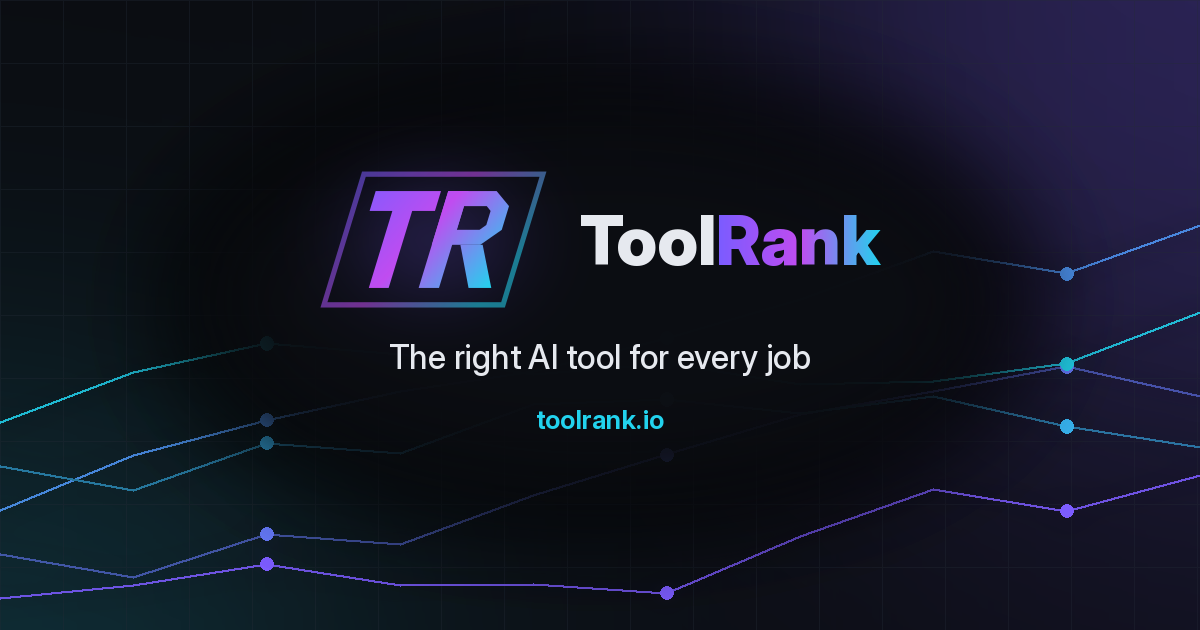
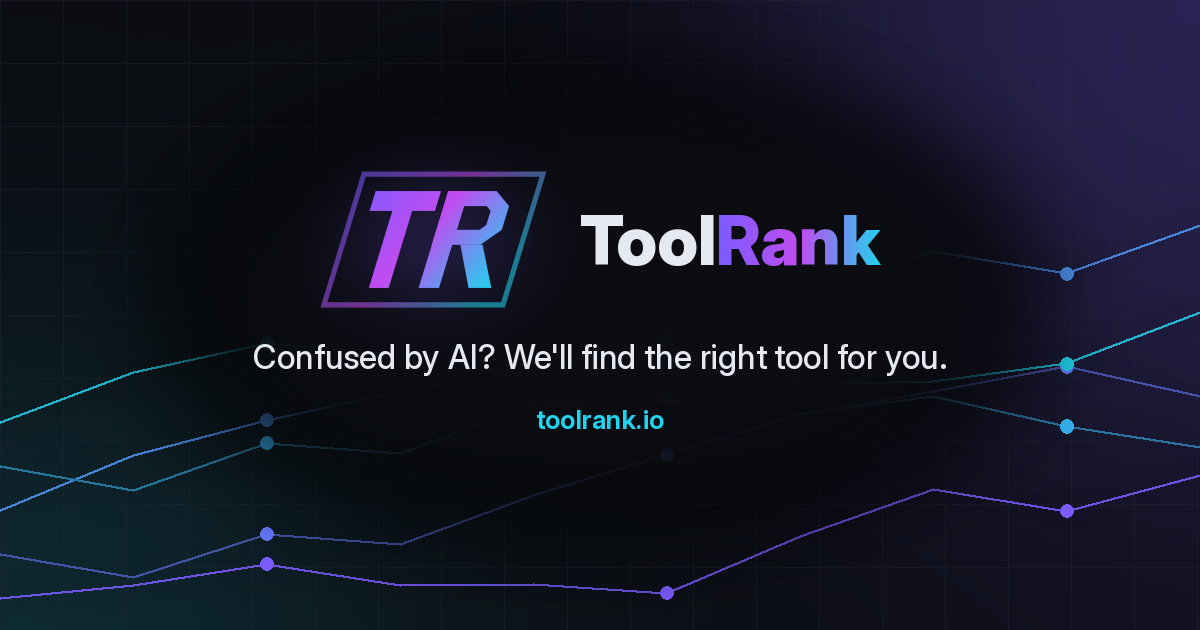
Homepage hero + OG image: 'Confused by AI? We'll find the right tool for you.'

Changed region(s): [[0.2158, 0.5429, 0.8017, 0.6032]]

diff --git a/index.html b/index.html
@@ -6,7 +6,7 @@
 <link rel="icon" href="/assets/favicon.svg" type="image/svg+xml"><link rel="icon" href="/assets/favicon-32.png" sizes="32x32" type="image/png"><link rel="apple-touch-icon" href="/assets/apple-touch-icon.png"><meta name="twitter:title" content="ToolRank: the best AI tools ranked by use case (2026)"><meta name="twitter:description" content="Editorial rankings of AI tools across 10 use cases: vibe coding, coding assistants, video, agent builder, image generation, writing, research &amp; search, voice &amp; audio, productivity &amp; automation, crypto &amp; Web3. Updated 2026-10-15.">
 <script type="application/ld+json">{"@context": "https://schema.org", "@graph": [{"@type": "Organization", "@id": "https://toolrank.io/#org", "name": "ToolRank", "url": "https://toolrank.io/"}, {"@type": "WebSite", "@id": "https://toolrank.io/#website", "name": "ToolRank", "url": "https://toolrank.io/", "publisher": {"@id": "https://toolrank.io/#org"}, "potentialAction": {"@type": "SearchAction", "target": {"@type": "EntryPoint", "urlTemplate": "https://toolrank.io/?q={search_term_string}"}, "query-input": "required name=search_term_string"}}, {"@type": "ItemList", "name": "Best for vibe coding", "url": "https://toolrank.io/best/vibe-coding/", "itemListElement": [{"@type": "ListItem", "position": 1, "name": "Lovable", "url": "https://lovable.dev"}, {"@type": "ListItem", "position": 2, "name": "Bolt.new", "url": "https://bolt.new"}, {"@type": "ListItem", "position": 3, "name": "v0", "url": "https://v0.app"}, {"@type": "ListItem", "position": 4, "name": "Replit", "url": "https://replit.com"}, {"@type": "ListItem", "position": 5, "name": "Base44", "url": "https://base44.com"}, {"@type": "ListItem", "position": 6, "name": "Google AI Studio (Build)", "url": "https://aistudio.google.com"}, {"@type": "ListItem", "position": 7, "name": "Firebase Studio", "url": "https://firebase.studio"}, {"@type": "ListItem", "position": 8, "name": "Create.xyz (Anything)", "url": "https://www.createanything.com"}, {"@type": "ListItem", "position": 9, "name": "Rork", "url": "https://rork.com"}, {"@type": "ListItem", "position": 10, "name": "Softgen", "url": "https://softgen.ai"}, {"@type": "ListItem", "position": 11, "name": "Tempo", "url": "https://www.tempo.new"}, {"@type": "ListItem", "position": 12, "name": "Same", "url": "https://same.new"}, {"@type": "ListItem", "position": 13, "name": "Macaly", "url": "https://www.macaly.com"}, {"@type": "ListItem", "position": 14, "name": "Figma Make", "url": "https://www.figma.com/make/"}, {"@type": "ListItem", "position": 15, "name": "Bubble", "url": "https://bubble.io"}, {"@type": "ListItem", "position": 16, "name": "Glide", "url": "https://www.glideapps.com"}, {"@type": "ListItem", "position": 17, "name": "Webflow", "url": "https://webflow.com"}, {"@type": "ListItem", "position": 18, "name": "Framer", "url": "https://www.framer.com"}, {"@type": "ListItem", "position": 19, "name": "Dyad", "url": "https://www.dyad.sh"}, {"@type": "ListItem", "position": 20, "name": "vibe-wise", "url": "https://github.com/nykooi1/vibe-wise"}, {"@type": "ListItem", "position": 21, "name": "scroll-craft", "url": "https://github.com/nateherkai/scroll-craft"}, {"@type": "ListItem", "position": 22, "name": "shadcn lint", "url": "https://github.com/shadcn-ui/lint"}]}, {"@type": "ItemList", "name": "Best coding assistants", "url": "https://toolrank.io/best/coding-assistants/", "itemListElement": [{"@type": "ListItem", "position": 1, "name": "Cursor", "url": "https://www.cursor.com"}, {"@type": "ListItem", "position": 2, "name": "Claude Code", "url": "https://www.anthropic.com/claude-code"}, {"@type": "ListItem", "position": 3, "name": "GitHub Copilot", "url": "https://github.com/features/copilot"}, {"@type": "ListItem", "position": 4, "name": "OpenAI Codex", "url": "https://openai.com/codex"}, {"@type": "ListItem", "position": 5, "name": "Windsurf", "url": "https://windsurf.com"}, {"@type": "ListItem", "position": 6, "name": "Gemini CLI", "url": "https://github.com/google-gemini/gemini-cli"}, {"@type": "ListItem", "position": 7, "name": "JetBrains AI (Junie)", "url": "https://junie.jetbrains.com/"}, {"@type": "ListItem", "position": 8, "name": "Cline", "url": "https://cline.bot"}, {"@type": "ListItem", "position": 9, "name": "Kilo Code", "url": "https://kilo.ai"}, {"@type": "ListItem", "position": 10, "name": "Aider", "url": "https://aider.chat"}, {"@type": "ListItem", "position": 11, "name": "Amp", "url": "https://ampcode.com"}, {"@type": "ListItem", "position": 12, "name": "Zed", "url": "https://zed.dev"}, {"@type": "ListItem", "position": 13, "name": "Amazon Q Developer", "url": "https://aws.amazon.com/q/developer/"}, {"@type": "ListItem", "position": 14, "name": "Kiro", "url": "https://kiro.dev"}, {"@type": "ListItem", "position": 15, "name": "Augment Code", "url": "https://www.augmentcode.com"}, {"@type": "ListItem", "position": 16, "name": "Devin", "url": "https://devin.ai"}, {"@type": "ListItem", "position": 17, "name": "Factory", "url": "https://factory.com"}, {"@type": "ListItem", "position": 18, "name": "Warp", "url": "https://www.warp.dev"}, {"@type": "ListItem", "position": 19, "name": "OpenCode", "url": "https://opencode.ai"}, {"@type": "ListItem", "position": 20, "name": "Continue", "url": "https://www.continue.dev"}, {"@type": "ListItem", "position": 21, "name": "CodeRabbit", "url": "https://www.coderabbit.ai"}, {"@type": "ListItem", "position": 22, "name": "Qodo", "url": "https://www.qodo.ai"}, {"@type": "ListItem", "position": 23, "name": "Magpie", "url": "https://usemagpie.ai"}, {"@type": "ListItem", "position": 24, "name": "Mono (monocode)", "url": "https://usemono.dev"}, {"@type": "ListItem", "position": 25, "name": "OmniRush", "url": "https://omnirush.ai"}, {"@type": "ListItem", "position": 26, "name": "jevgrep", "url": "https://github.com/dzhng/jevgrep"}]}, {"@type": "ItemList", "name": "Best for video", "url": "https://toolrank.io/best/video/", "itemListElement": [{"@type": "ListItem", "position": 1, "name": "Runway", "url": "https://runwayml.com"}, {"@type": "ListItem", "position": 2, "name": "Google Veo", "url": "https://deepmind.google/models/veo/"}, {"@type": "ListItem", "position": 3, "name": "Kling AI", "url": "https://klingai.com"}, {"@type": "ListItem", "position": 4, "name": "Luma AI", "url": "https://lumalabs.ai"}, {"@type": "ListItem", "position": 5, "name": "HeyGen", "url": "https://www.heygen.com"}, {"@type": "ListItem", "position": 6, "name": "Sora", "url": "https://openai.com/sora"}, {"@type": "ListItem", "position": 7, "name": "Synthesia", "url": "https://www.synthesia.io"}, {"@type": "ListItem", "position": 8, "name": "Pika", "url": "https://pika.art"}, {"@type": "ListItem", "position": 9, "name": "Hailuo AI (MiniMax)", "url": "https://hailuoai.video"}, {"@type": "ListItem", "position": 10, "name": "Higgsfield", "url": "https://higgsfield.ai"}, {"@type": "ListItem", "position": 11, "name": "PixVerse", "url": "https://pixverse.ai"}, {"@type": "ListItem", "position": 12, "name": "Vidu", "url": "https://www.vidu.com"}, {"@type": "ListItem", "position": 13, "name": "Hedra", "url": "https://www.hedra.com"}, {"@type": "ListItem", "position": 14, "name": "Captions", "url": "https://www.captions.ai"}, {"@type": "ListItem", "position": 15, "name": "OpusClip", "url": "https://www.opus.pro"}, {"@type": "ListItem", "position": 16, "name": "Descript (video)", "url": "https://www.descript.com"}, {"@type": "ListItem", "position": 17, "name": "CapCut", "url": "https://www.capcut.com"}, {"@type": "ListItem", "position": 18, "name": "Invideo AI", "url": "https://invideo.io"}, {"@type": "ListItem", "position": 19, "name": "Colossyan", "url": "https://www.colossyan.com"}, {"@type": "ListItem", "position": 20, "name": "D-ID", "url": "https://www.d-id.com"}, {"@type": "ListItem", "position": 21, "name": "Wan (Alibaba)", "url": "https://wan.video"}, {"@type": "ListItem", "position": 22, "name": "LTX Studio", "url": "https://ltx.io/studio"}, {"@type": "ListItem", "position": 23, "name": "Veed", "url": "https://www.veed.io"}, {"@type": "ListItem", "position": 24, "name": "Topaz Video", "url": "https://www.topazlabs.com/topaz-video"}, {"@type": "ListItem", "position": 25, "name": "Wonder Studio (Autodesk Flow Studio)", "url": "https://www.autodesk.com/products/flow-studio/overview"}, {"@type": "ListItem", "position": 26, "name": "Vozo", "url": "https://www.vozo.ai"}, {"@type": "ListItem", "position": 27, "name": "ReelMimic", "url": "https://github.com/edenfunf/reelmimic"}]}, {"@type": "ItemList", "name": "Best agent builder", "url": "https://toolrank.io/best/agent-builders/", "itemListElement": [{"@type": "ListItem", "position": 1, "name": "n8n", "url": "https://n8n.io"}, {"@type": "ListItem", "position": 2, "name": "LangGraph", "url": "https://www.langchain.com/langgraph"}, {"@type": "ListItem", "position": 3, "name": "CrewAI", "url": "https://www.crewai.com"}, {"@type": "ListItem", "position": 4, "name": "Relevance AI", "url": "https://www.relevanceai.com"}, {"@type": "ListItem", "position": 5, "name": "Gumloop", "url": "https://www.gumloop.com"}, {"@type": "ListItem", "position": 6, "name": "OpenAI Agents SDK", "url": "https://openai.github.io/openai-agents-python/"}, {"@type": "ListItem", "position": 7, "name": "Claude Agent SDK", "url": "https://code.claude.com/docs/en/agent-sdk/overview"}, {"@type": "ListItem", "position": 8, "name": "Google ADK", "url": "https://adk.dev/"}, {"@type": "ListItem", "position": 9, "name": "Microsoft Agent Framework", "url": "https://github.com/microsoft/agent-framework"}, {"@type": "ListItem", "position": 10, "name": "LlamaIndex", "url": "https://www.llamaindex.ai"}, {"@type": "ListItem", "position": 11, "name": "Pydantic AI", "url": "https://pydantic.dev/docs/ai/overview/"}, {"@type": "ListItem", "position": 12, "name": "Mastra", "url": "https://mastra.ai"}, {"@type": "ListItem", "position": 13, "name": "Dify", "url": "https://dify.ai"}, {"@type": "ListItem", "position": 14, "name": "Flowise", "url": "https://flowiseai.com"}, {"@type": "ListItem", "position": 15, "name": "Langflow", "url": "https://www.langflow.org"}, {"@type": "ListItem", "position": 16, "name": "Lindy", "url": "https://www.lindy.ai"}, {"@type": "ListItem", "position": 17, "name": "Botpress", "url": "https://botpress.com"}, {"@type": "ListItem", "position": 18, "name": "Voiceflow", "url": "https://www.voiceflow.com"}, {"@type": "ListItem", "position": 19, "name": "Vapi", "url": "https://vapi.ai"}, {"@type": "ListItem", "position": 20, "name": "Agno", "url": "https://www.agno.com"}, {"@type": "ListItem", "position": 21, "name": "Monid", "url": "https://monid.ai"}, {"@type": "ListItem", "position": 22, "name": "agent-memory", "url": "https://github.com/tigerless-labs/agent-memory"}, {"@type": "ListItem", "position": 23, "name": "Reef", "url": "https://reefinfra.ai"}]}, {"@type": "ItemList", "name": "Best for image generation", "url": "https://toolrank.io/best/image/", "itemListElement": [{"@type": "ListItem", "position": 1, "name": "Midjourney", "url": "https://www.midjourney.com"}, {"@type": "ListItem", "position": 2, "name": "Ideogram", "url": "https://ideogram.ai"}, {"@type": "ListItem", "position": 3, "name": "Black Forest Labs (FLUX)", "url": "https://bfl.ai"}, {"@type": "ListItem", "position": 4, "name": "Recraft", "url": "https://www.recraft.ai"}, {"@type": "ListItem", "position": 5, "name": "Krea", "url": "https://www.krea.ai"}, {"@type": "ListItem", "position": 6, "name": "GPT Image (ChatGPT)", "url": "https://chatgpt.com"}, {"@type": "ListItem", "position": 7, "name": "Google Gemini (Nano Banana)", "url": "https://gemini.google.com"}, {"@type": "ListItem", "position": 8, "name": "Adobe Firefly", "url": "https://firefly.adobe.com"}, {"@type": "ListItem", "position": 9, "name": "Leonardo.Ai", "url": "https://leonardo.ai"}, {"@type": "ListItem", "position": 10, "name": "Stability AI", "url": "https://stability.ai"}, {"@type": "ListItem", "position": 11, "name": "Canva AI", "url": "https://www.canva.com"}, {"@type": "ListItem", "position": 12, "name": "Freepik AI", "url": "https://www.freepik.com/ai"}, {"@type": "ListItem", "position": 13, "name": "Magnific", "url": "https://www.magnific.com"}, {"@type": "ListItem", "position": 14, "name": "Photoroom", "url": "https://www.photoroom.com"}, {"@type": "ListItem", "position": 15, "name": "Seedream (ByteDance)", "url": "https://seed.bytedance.com/en/seedream4_0"}, {"@type": "ListItem", "position": 16, "name": "ComfyUI", "url": "https://www.comfy.org"}, {"@type": "ListItem", "position": 17, "name": "Anatomy", "url": "https://skills.wheresryan.sh/anatomy"}, {"@type": "ListItem", "position": 18, "name": "logo-design-skill", "url": "https://github.com/kaankiziltug/logo-design-skill"}, {"@type": "ListItem", "position": 19, "name": "Goldie", "url": "https://github.com/software-mansion-labs/goldie"}]}, {"@type": "ItemList", "name": "Best for writing", "url": "https://toolrank.io/best/writing/", "itemListElement": [{"@type": "ListItem", "position": 1, "name": "Claude", "url": "https://claude.ai"}, {"@type": "ListItem", "position": 2, "name": "ChatGPT", "url": "https://chatgpt.com"}, {"@type": "ListItem", "position": 3, "name": "Grammarly", "url": "https://www.grammarly.com"}, {"@type": "ListItem", "position": 4, "name": "Sudowrite", "url": "https://sudowrite.com"}, {"@type": "ListItem", "position": 5, "name": "Jasper", "url": "https://www.jasper.ai"}, {"@type": "ListItem", "position": 6, "name": "Google Gemini", "url": "https://gemini.google.com"}, {"@type": "ListItem", "position": 7, "name": "Microsoft Copilot", "url": "https://copilot.microsoft.com"}, {"@type": "ListItem", "position": 8, "name": "Grok", "url": "https://grok.com"}, {"@type": "ListItem", "position": 9, "name": "QuillBot", "url": "https://quillbot.com"}, {"@type": "ListItem", "position": 10, "name": "Wordtune", "url": "https://www.wordtune.com"}, {"@type": "ListItem", "position": 11, "name": "Copy.ai", "url": "https://www.copy.ai"}, {"@type": "ListItem", "position": 12, "name": "Writer", "url": "https://writer.com"}, {"@type": "ListItem", "position": 13, "name": "Hemingway Editor", "url": "https://hemingwayapp.com"}, {"@type": "ListItem", "position": 14, "name": "ProWritingAid", "url": "https://prowritingaid.com"}, {"@type": "ListItem", "position": 15, "name": "NovelAI", "url": "https://novelai.net"}, {"@type": "ListItem", "position": 16, "name": "Lex", "url": "https://lex.page"}, {"@type": "ListItem", "position": 17, "name": "DeepL Write", "url": "https://www.deepl.com/write"}, {"@type": "ListItem", "position": 18, "name": "Rytr", "url": "https://rytr.me"}, {"@type": "ListItem", "position": 19, "name": "Typefully", "url": "https://typefully.com"}, {"@type": "ListItem", "position": 20, "name": "Sepia", "url": "https://github.com/Nanako0129/sepia"}, {"@type": "ListItem", "position": 21, "name": "Easel", "url": "https://github.com/ZJU-REAL/Easel"}]}, {"@type": "ItemList", "name": "Best for research & search", "url": "https://toolrank.io/best/research/", "itemListElement": [{"@type": "ListItem", "position": 1, "name": "Perplexity", "url": "https://www.perplexity.ai"}, {"@type": "ListItem", "position": 2, "name": "NotebookLM", "url": "https://notebooklm.google"}, {"@type": "ListItem", "position": 3, "name": "Elicit", "url": "https://elicit.com"}, {"@type": "ListItem", "position": 4, "name": "Consensus", "url": "https://consensus.app"}, {"@type": "ListItem", "position": 5, "name": "ChatGPT Deep Research", "url": "https://chatgpt.com"}, {"@type": "ListItem", "position": 6, "name": "Gemini Deep Research", "url": "https://gemini.google.com"}, {"@type": "ListItem", "position": 7, "name": "Google AI Mode", "url": "https://www.google.com/search?udm=50"}, {"@type": "ListItem", "position": 8, "name": "Kagi", "url": "https://kagi.com"}, {"@type": "ListItem", "position": 9, "name": "You.com", "url": "https://you.com"}, {"@type": "ListItem", "position": 10, "name": "Semantic Scholar", "url": "https://www.semanticscholar.org"}, {"@type": "ListItem", "position": 11, "name": "Scite", "url": "https://scite.ai"}, {"@type": "ListItem", "position": 12, "name": "SciSpace", "url": "https://scispace.com"}, {"@type": "ListItem", "position": 13, "name": "Undermind", "url": "https://www.undermind.ai"}, {"@type": "ListItem", "position": 14, "name": "Exa", "url": "https://exa.ai"}, {"@type": "ListItem", "position": 15, "name": "Tavily", "url": "https://www.tavily.com"}, {"@type": "ListItem", "position": 16, "name": "Felo", "url": "https://felo.ai"}, {"@type": "ListItem", "position": 17, "name": "Liner", "url": "https://liner.com"}, {"@type": "ListItem", "position": 18, "name": "Connected Papers", "url": "https://www.connectedpapers.com"}, {"@type": "ListItem", "position": 19, "name": "Research Rabbit", "url": "https://www.researchrabbit.ai"}, {"@type": "ListItem", "position": 20, "name": "Answer me with HTML", "url": "https://answer-me-with-html.com/"}, {"@type": "ListItem", "position": 21, "name": "geo-sleuth", "url": "https://github.com/Oldcircle/geo-sleuth"}]}, {"@type": "ItemList", "name": "Best for voice & audio", "url": "https://toolrank.io/best/voice-audio/", "itemListElement": [{"@type": "ListItem", "position": 1, "name": "ElevenLabs", "url": "https://elevenlabs.io"}, {"@type": "ListItem", "position": 2, "name": "Suno", "url": "https://suno.com"}, {"@type": "ListItem", "position": 3, "name": "Udio", "url": "https://www.udio.com"}, {"@type": "ListItem", "position": 4, "name": "Descript", "url": "https://www.descript.com"}, {"@type": "ListItem", "position": 5, "name": "Wispr Flow", "url": "https://wisprflow.ai"}, {"@type": "ListItem", "position": 6, "name": "OpenAI Whisper", "url": "https://github.com/openai/whisper"}, {"@type": "ListItem", "position": 7, "name": "Otter.ai", "url": "https://otter.ai"}, {"@type": "ListItem", "position": 8, "name": "Speechify", "url": "https://speechify.com"}, {"@type": "ListItem", "position": 9, "name": "Murf", "url": "https://murf.ai"}, {"@type": "ListItem", "position": 10, "name": "Cartesia", "url": "https://cartesia.ai"}, {"@type": "ListItem", "position": 11, "name": "Deepgram", "url": "https://deepgram.com"}, {"@type": "ListItem", "position": 12, "name": "AssemblyAI", "url": "https://www.assemblyai.com"}, {"@type": "ListItem", "position": 13, "name": "Resemble AI", "url": "https://www.resemble.ai"}, {"@type": "ListItem", "position": 14, "name": "Adobe Podcast", "url": "https://podcast.adobe.com"}, {"@type": "ListItem", "position": 15, "name": "Krisp", "url": "https://krisp.ai"}, {"@type": "ListItem", "position": 16, "name": "Riverside", "url": "https://riverside.com"}, {"@type": "ListItem", "position": 17, "name": "Hume AI", "url": "https://www.hume.ai"}, {"@type": "ListItem", "position": 18, "name": "LALAL.AI", "url": "https://www.lalal.ai"}, {"@type": "ListItem", "position": 19, "name": "Superwhisper", "url": "https://superwhisper.com"}, {"@type": "ListItem", "position": 20, "name": "AIVA", "url": "https://www.aiva.ai"}, {"@type": "ListItem", "position": 21, "name": "VoiceMem", "url": "https://github.com/xzf-thu/VoiceMem"}]}, {"@type": "ItemList", "name": "Best for productivity & automation", "url": "https://toolrank.io/best/productivity/", "itemListElement": [{"@type": "ListItem", "position": 1, "name": "Zapier", "url": "https://zapier.com"}, {"@type": "ListItem", "position": 2, "name": "Make", "url": "https://www.make.com"}, {"@type": "ListItem", "position": 3, "name": "Notion AI", "url": "https://www.notion.com/product/ai"}, {"@type": "ListItem", "position": 4, "name": "Gamma", "url": "https://gamma.app"}, {"@type": "ListItem", "position": 5, "name": "Microsoft 365 Copilot", "url": "https://www.microsoft.com/en-us/microsoft-365/copilot"}, {"@type": "ListItem", "position": 6, "name": "Gemini for Google Workspace", "url": "https://workspace.google.com/solutions/ai/"}, {"@type": "ListItem", "position": 7, "name": "Granola", "url": "https://www.granola.ai"}, {"@type": "ListItem", "position": 8, "name": "Fireflies.ai", "url": "https://fireflies.ai"}, {"@type": "ListItem", "position": 9, "name": "Fathom", "url": "https://www.fathom.ai"}, {"@type": "ListItem", "position": 10, "name": "Motion", "url": "https://www.usemotion.com"}, {"@type": "ListItem", "position": 11, "name": "Reclaim.ai", "url": "https://reclaim.ai"}, {"@type": "ListItem", "position": 12, "name": "Superhuman", "url": "https://superhuman.com"}, {"@type": "ListItem", "position": 13, "name": "ClickUp", "url": "https://clickup.com"}, {"@type": "ListItem", "position": 14, "name": "Raycast", "url": "https://www.raycast.com"}, {"@type": "ListItem", "position": 15, "name": "Mem", "url": "https://get.mem.ai"}, {"@type": "ListItem", "position": 16, "name": "Beautiful.ai", "url": "https://www.beautiful.ai"}, {"@type": "ListItem", "position": 17, "name": "Airtable", "url": "https://www.airtable.com"}, {"@type": "ListItem", "position": 18, "name": "Manus", "url": "https://manus.im"}, {"@type": "ListItem", "position": 19, "name": "ChatGPT Agent", "url": "https://chatgpt.com"}, {"@type": "ListItem", "position": 20, "name": "Perplexity Comet", "url": "https://www.perplexity.ai/comet"}, {"@type": "ListItem", "position": 21, "name": "Zapier Agents", "url": "https://zapier.com/agents"}, {"@type": "ListItem", "position": 22, "name": "coucou", "url": "https://louis-cfm.github.io/coucou/"}]}, {"@type": "ItemList", "name": "Best for crypto & Web3", "url": "https://toolrank.io/best/crypto/", "itemListElement": [{"@type": "ListItem", "position": 1, "name": "Nansen", "url": "https://www.nansen.ai"}, {"@type": "ListItem", "position": 2, "name": "Arkham", "url": "https://intel.arkm.com"}, {"@type": "ListItem", "position": 3, "name": "Messari", "url": "https://messari.io"}, {"@type": "ListItem", "position": 4, "name": "Dune", "url": "https://dune.com"}, {"@type": "ListItem", "position": 5, "name": "Kaito", "url": "https://www.kaito.ai"}, {"@type": "ListItem", "position": 6, "name": "Token Metrics", "url": "https://www.tokenmetrics.com"}, {"@type": "ListItem", "position": 7, "name": "Santiment", "url": "https://santiment.net"}, {"@type": "ListItem", "position": 8, "name": "Glassnode", "url": "https://glassnode.com"}, {"@type": "ListItem", "position": 9, "name": "Surf", "url": "https://asksurf.ai"}, {"@type": "ListItem", "position": 10, "name": "Elfa AI", "url": "https://www.elfa.ai"}, {"@type": "ListItem", "position": 11, "name": "ChainGPT", "url": "https://www.chaingpt.org"}, {"@type": "ListItem", "position": 12, "name": "Bankr", "url": "https://bankr.bot"}, {"@type": "ListItem", "position": 13, "name": "Virtuals Protocol", "url": "https://www.virtuals.io"}, {"@type": "ListItem", "position": 14, "name": "Scam Sniffer", "url": "https://www.scamsniffer.io"}, {"@type": "ListItem", "position": 15, "name": "Blockaid", "url": "https://www.blockaid.io"}, {"@type": "ListItem", "position": 16, "name": "GoPlus Security", "url": "https://gopluslabs.io"}, {"@type": "ListItem", "position": 17, "name": "De.Fi", "url": "https://de.fi"}, {"@type": "ListItem", "position": 18, "name": "Zerion", "url": "https://zerion.io"}, {"@type": "ListItem", "position": 19, "name": "DeBank", "url": "https://debank.com"}, {"@type": "ListItem", "position": 20, "name": "CoinStats", "url": "https://coinstats.app"}, {"@type": "ListItem", "position": 21, "name": "Koinly", "url": "https://koinly.io"}, {"@type": "ListItem", "position": 22, "name": "CoinTracker", "url": "https://www.cointracker.io"}, {"@type": "ListItem", "position": 23, "name": "3Commas", "url": "https://3commas.io"}, {"@type": "ListItem", "position": 24, "name": "Cryptohopper", "url": "https://www.cryptohopper.com"}, {"@type": "ListItem", "position": 25, "name": "Chainalysis", "url": "https://www.chainalysis.com"}]}]}</script><!--/SEO--><link rel="stylesheet" href="assets/style.css?v=2e29c441"></head><body>
 <header class="top"><a class="logo" href="index.html"><img class="mark" src="/assets/logo.svg" alt="" width="46" height="28">Tool<b>Rank</b></a><nav><a href="/reviews.html">Reviews</a><a href="#new">New this week</a><a href="/submit.html">Submit a tool</a><a href="/services.html">Services</a></nav></header>
-<section class="hero"><div class="seg" role="tablist" aria-label="Audience"><span class="ind" aria-hidden="true"></span><button type="button" role="tab" data-tab="you" aria-selected="true">For You</button><button type="button" role="tab" data-tab="business" aria-selected="false">For Business</button><button type="button" role="tab" data-tab="makers" aria-selected="false">For Makers</button></div><h1>The best AI tools, ranked by what you need</h1><p id="tagline">Hand-picked, verified picks across use cases. No fluff.</p><!--STATS--><div class="stats"><span><b>227</b> tools ranked</span><span><b>0</b> reviews collected · <a href="/reviews.html">Be the first to review</a></span></div><!--/STATS-->
+<section class="hero"><div class="seg" role="tablist" aria-label="Audience"><span class="ind" aria-hidden="true"></span><button type="button" role="tab" data-tab="you" aria-selected="true">For You</button><button type="button" role="tab" data-tab="business" aria-selected="false">For Business</button><button type="button" role="tab" data-tab="makers" aria-selected="false">For Makers</button></div><h1>Confused by AI? We&rsquo;ll find the right tool for you.</h1><p id="tagline">Hand-picked, verified picks across use cases. No fluff.</p><!--STATS--><div class="stats"><span><b>227</b> tools ranked</span><span><b>0</b> reviews collected · <a href="/reviews.html">Be the first to review</a></span></div><!--/STATS-->
 <form class="controls" id="sf" role="search" action="/" onsubmit="return false"><input id="q" name="q" type="search" enterkeyhint="search" placeholder="Search tools…" aria-label="Search"><button type="submit" id="sbtn" aria-label="Search"><svg width="16" height="16" viewBox="0 0 24 24" fill="none" stroke="currentColor" stroke-width="2.5" aria-hidden="true" style="vertical-align:-3px"><circle cx="11" cy="11" r="7"/><path d="m20 20-3.5-3.5"/></svg> Search</button><select id="cat" aria-label="Category"><option value="">All categories</option></select><select id="price" aria-label="Pricing"><option value="">Any pricing</option><option value="free">Free or free tier</option><option>freemium</option><option>paid</option></select></form>
 <div id="chips" class="chips"></div><p id="scope" class="muted small"></p></section>
 <!--CTA--><section class="wrap"><div class="cta"><div><h2>Using AI tools? Leave a review.</h2><p>Help builders and businesses pick the right AI tool.</p></div><a class="btn" href="https://github.com/Toolrank/toolrank/issues/new?template=review.yml" target="_blank" rel="noopener">Leave a Review</a></div></section><!--/CTA-->
